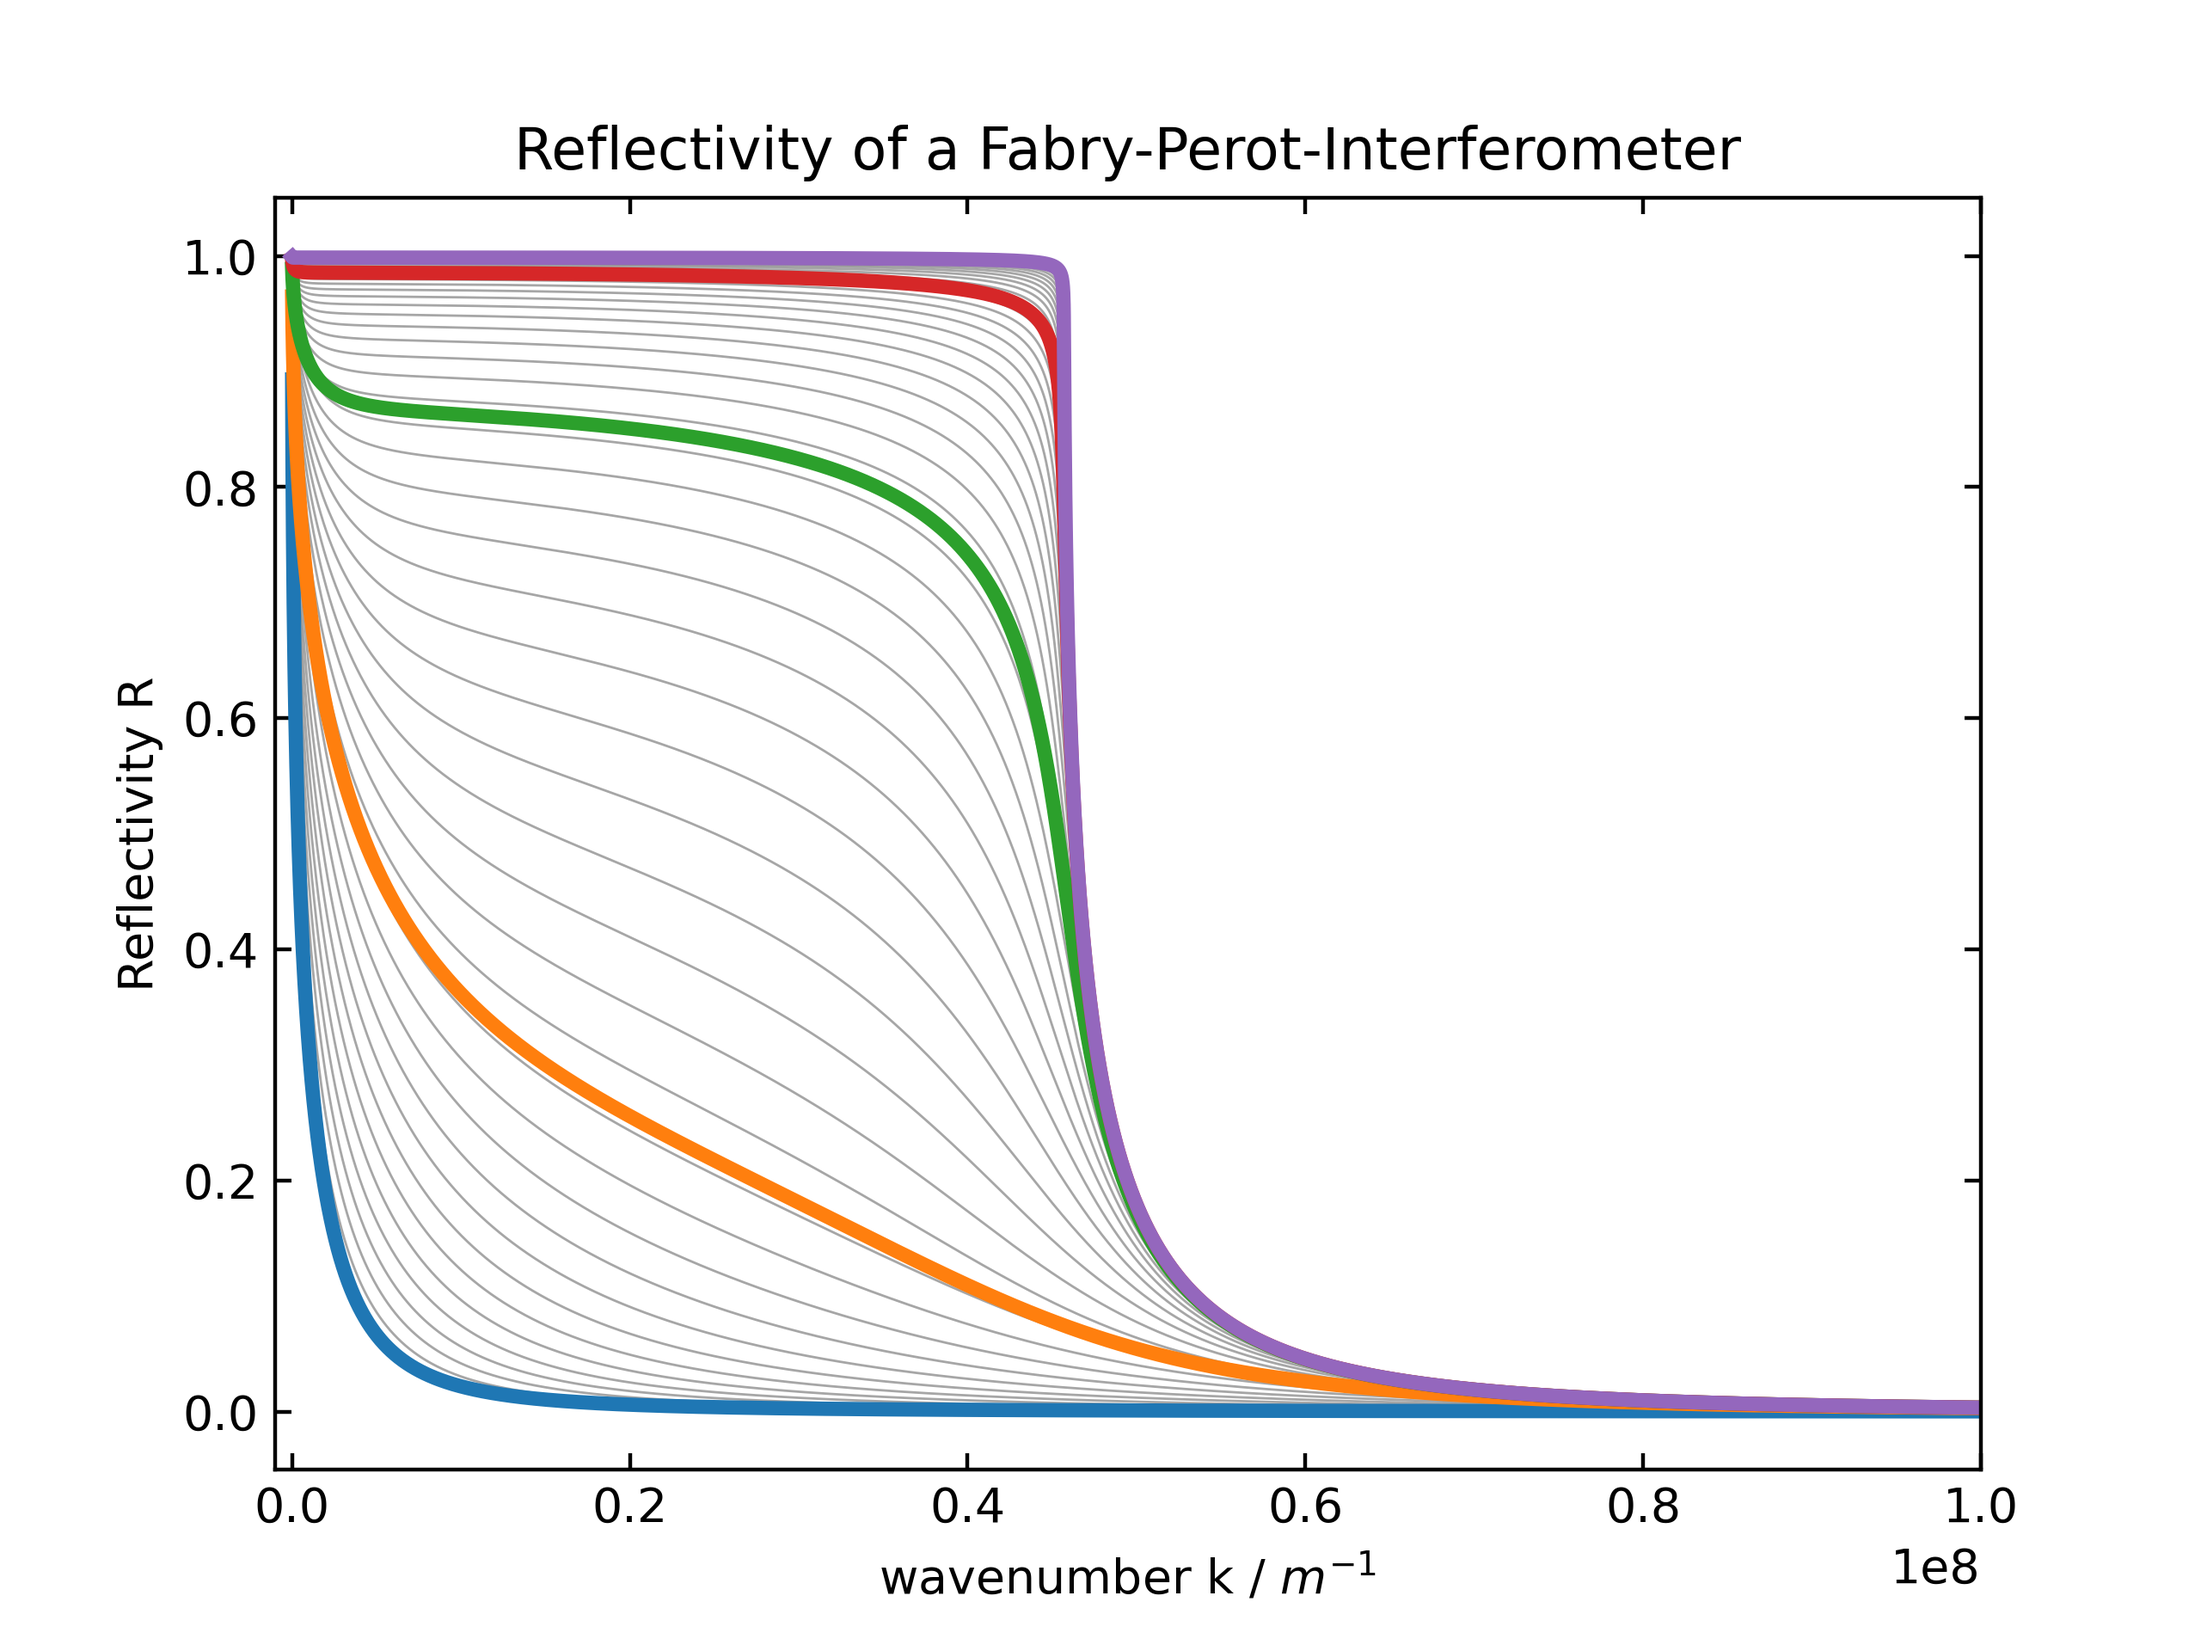
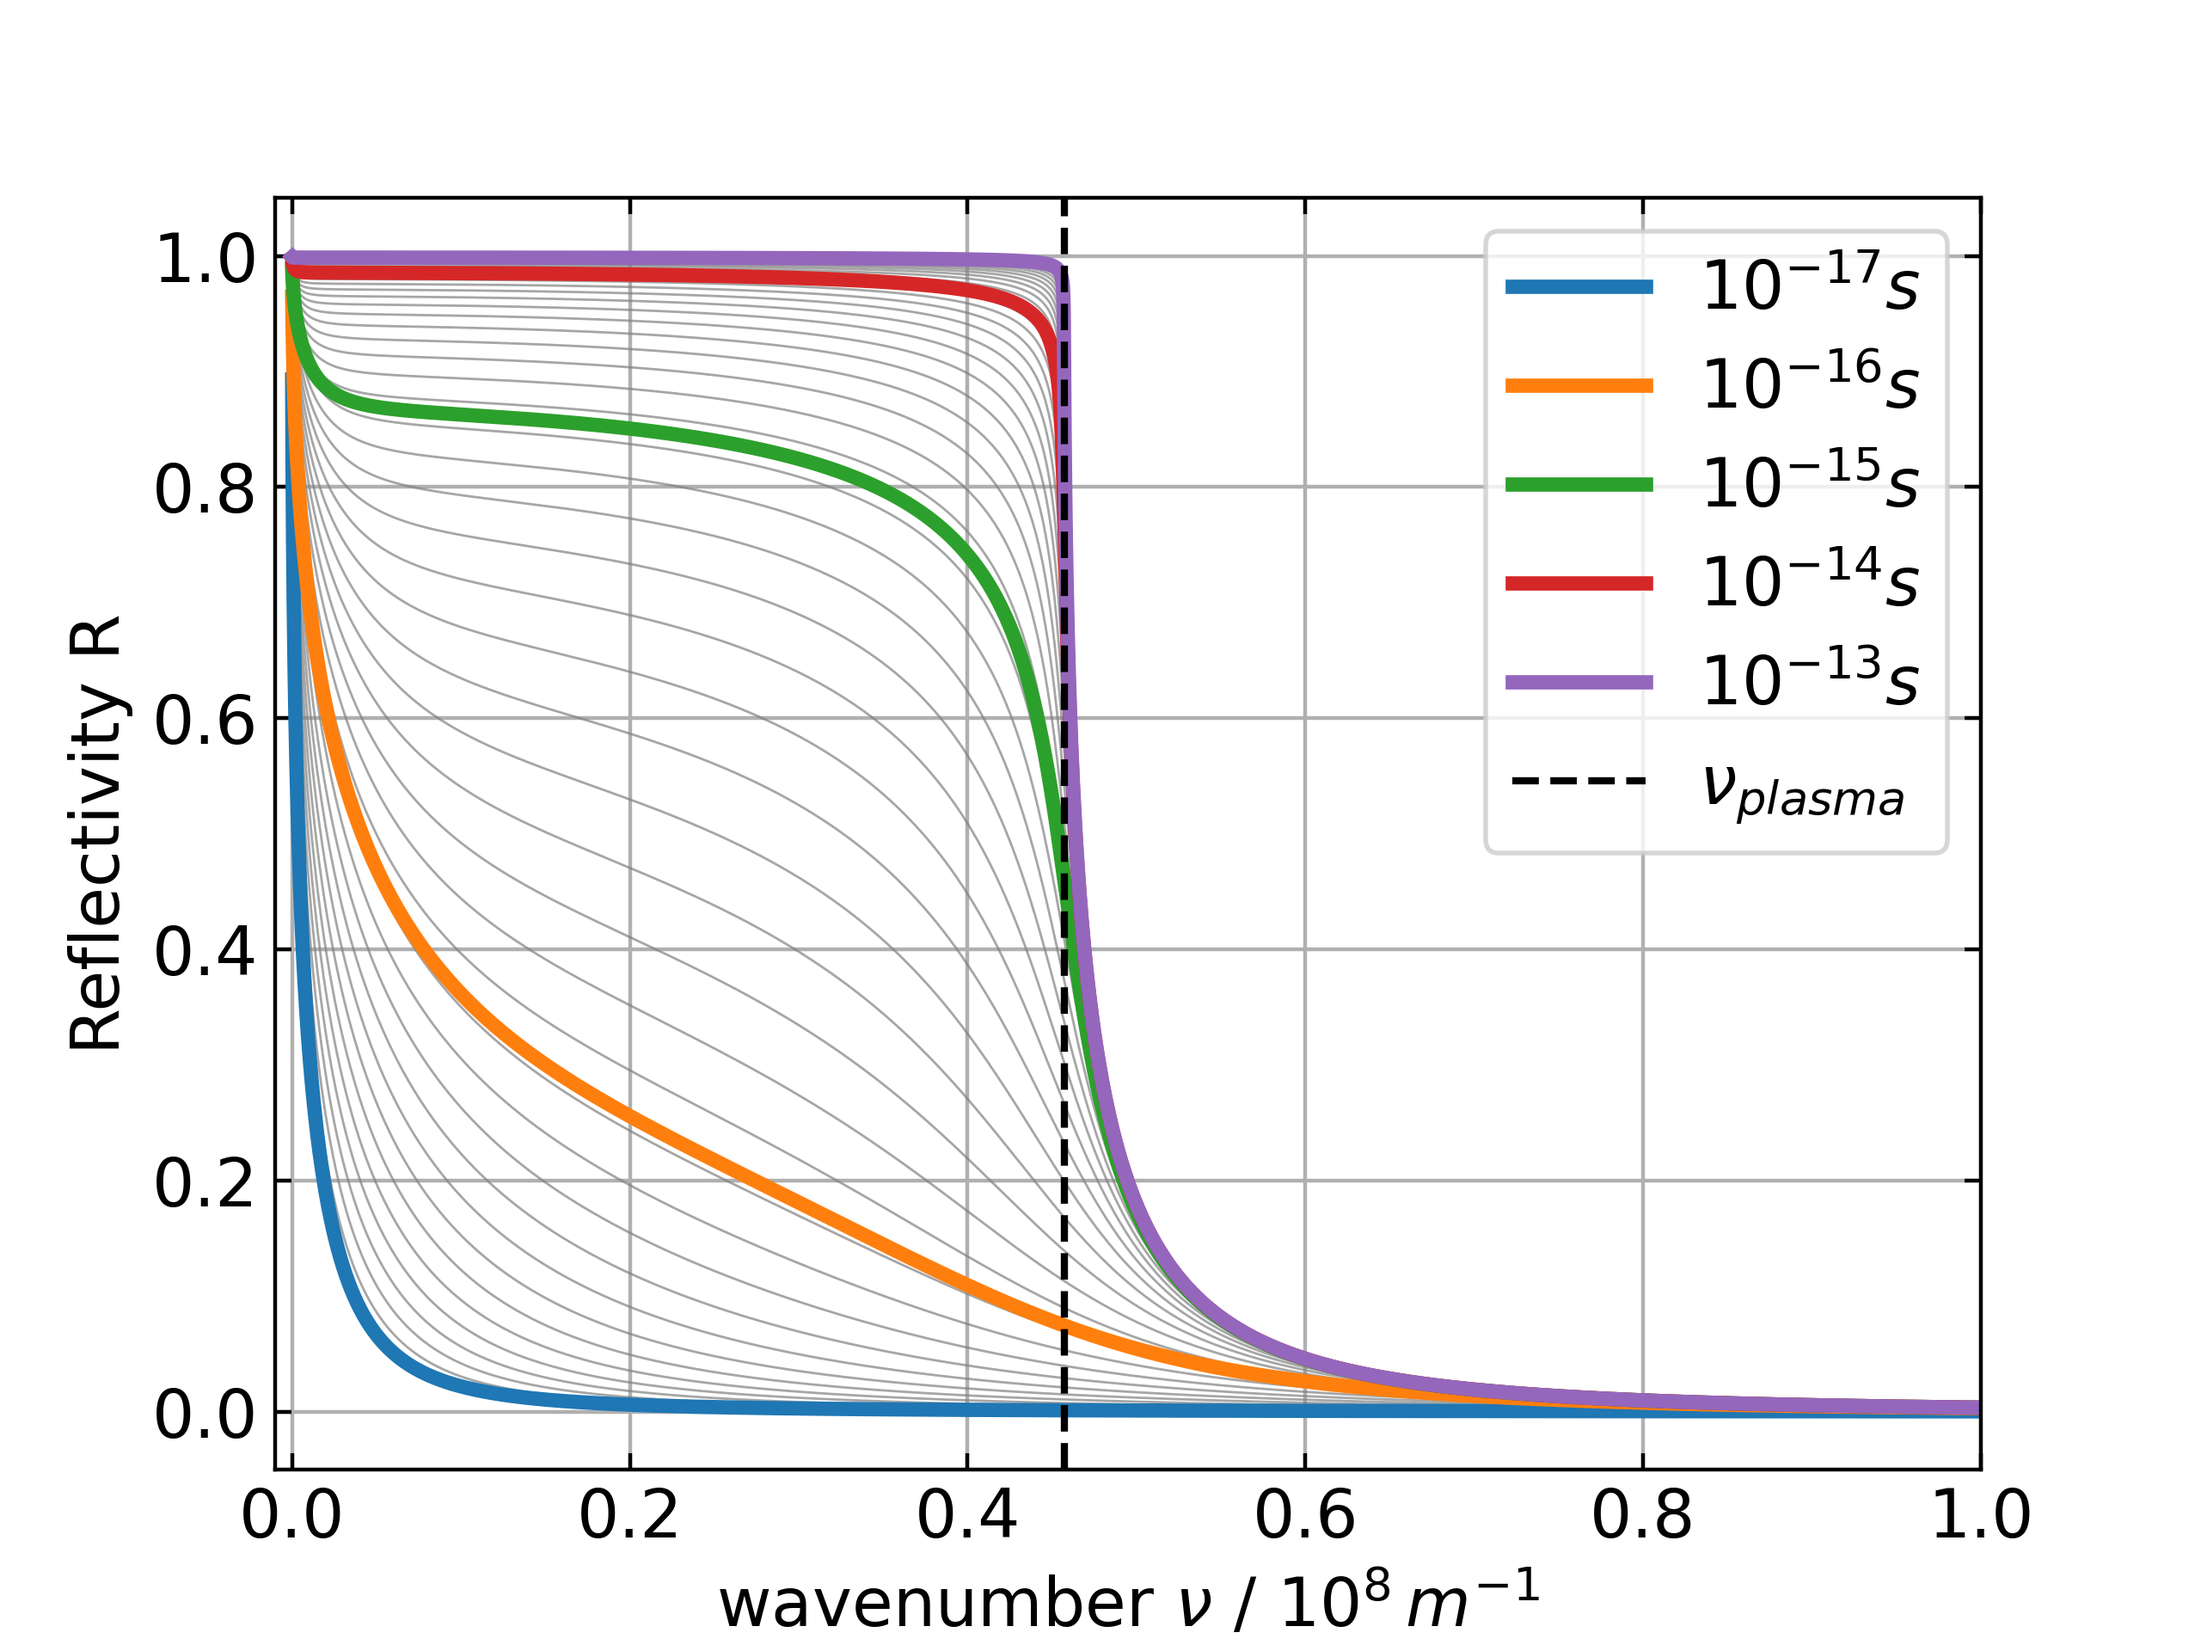
letzte Plots hübsch

diff --git a/SolidStateOptics/Theory/TheoreticalCurveReflection.py b/SolidStateOptics/Theory/TheoreticalCurveReflection.py
@@ -48,84 +48,37 @@ omega_plasma = np.sqrt(N_Dichte * e**2 / (m_eff * epsilon_0))
 k_plasma = omega_plasma / c
 def plotReflectivity(d, tau1, tau2, tau3, tau4, tau5, k_max):
     fig, ax = plt.subplots()
+    ax.grid()
     
     k = np.linspace(0, k_max, 10000)
 
     taus = np.logspace(np.log10(tau1), np.log10(tau5), 50)  # Generate 50 tau values logarithmically spaced
     for tau in taus:
-        ax.plot(k, calculateReflectivity(d, tau, k), color='gray', linewidth=0.5, alpha=0.7)
+        ax.plot(k*10**-8, calculateReflectivity(d, tau, k), color='gray', linewidth=0.5, alpha=0.7)
         
-    ax.plot(k, calculateReflectivity(d, tau5, k), linewidth=3)
-    ax.plot(k, calculateReflectivity(d, tau4, k), linewidth=3)
-    ax.plot(k, calculateReflectivity(d, tau3, k), linewidth=3)
-    ax.plot(k, calculateReflectivity(d, tau2, k), linewidth=3)
-    ax.plot(k, calculateReflectivity(d, tau1, k), linewidth=3)
+    ax.plot(k*10**-8, calculateReflectivity(d, tau5, k), linewidth=3, label=r'$10^{-17}s$')
+    ax.plot(k*10**-8, calculateReflectivity(d, tau4, k), linewidth=3, label=r'$10^{-16}s$')
+    ax.plot(k*10**-8, calculateReflectivity(d, tau3, k), linewidth=3, label=r'$10^{-15}s$')
+    ax.plot(k*10**-8, calculateReflectivity(d, tau2, k), linewidth=3, label=r'$10^{-14}s$')
+    ax.plot(k*10**-8, calculateReflectivity(d, tau1, k), linewidth=3, label=r'$10^{-13}s$')
     #ax.set_xticks([0, 0.25, 0.5, 0.75, 1], [r'$\Gamma$', 'X', 'M', 'Y', r'$\Gamma$'], size=14)
 
-    ax.set_ylabel('Reflectivity R')
-    ax.set_xlabel('wavenumber k / ' + r'$m^{-1}$')
-    ax.set_title('Reflectivity of a Fabry-Perot-Interferometer')
-    ax.tick_params(axis='both', direction='in', which='both', top=True, right=True)
-    ax.set_xlim(left=-0.01*k_max, right=k_max)
+    ax.set_ylabel('Reflectivity R', fontsize=14)
+    ax.set_xlabel(r'wavenumber $\nu$ / ' + r'$10^{8}\,m^{-1}$', fontsize=14)
+    ax.tick_params(axis='both', direction='in', which='both', top=True, right=True, labelsize=14)
+    ax.set_xlim(left=-0.01*k_max*10**-8, right=k_max*10**-8)
     ax.set_ylim(bottom=-0.05, top=1.05)
-    #ax.grid()
+    
+    ax.axvline(x=k_plasma*10**-8, color='black', linestyle='--', label=r'$\nu_{plasma}$')
+    ax.legend(fontsize=14)
 
     plt.savefig('Paper/Images/foo.png', dpi=400)
     from PIL import Image
-    #Image.open("Paper/Images/foo.png").show()
+    Image.open("Paper/Images/foo.png").show()
     plt.clf()
     plt.close()
 
 plotReflectivity(d, tau1, tau2, tau3, tau4, tau5, k_max)
-
-
-writeLatexMacro('N_Dichte',np.round(N_Dichte,4))
-
-#Lukas
-
-def calculateReflectivitySemiconductor(epsilon_inf, omega_LO, omega_TO, gamma, d, k, N_DichteSemicon, tau):
-    omega = c * k
-    epsilon_S = epsilon_inf * (1 + (omega_LO**2 - omega_TO**2) / (omega_TO**2 - omega**2 - 1j * omega * gamma))
-    sigma = (N_DichteSemicon * e**2 * tau) / (m_eff_Semicon) * (1 / (1 - 1j * omega * tau))
-    epsilon = epsilon_S + 1j * sigma / (omega * epsilon_0)
-    N_S = np.sqrt(epsilon)
-    expo = 1j * 2 * omega * N_S * d / c
-    r = (np.exp(expo) - 1) * (1 - N_S) / (np.exp(expo) * (1 - N_S) - (1 + N_S))
-    R_S = np.abs(r)**2  # Normierung entfernt
-    return R_S
-
-# Berechnung der Plasmafrequenz und des zugehörigen Wellenvektors für den Halbleiter-Plot
-omega_plasma_semicon = np.sqrt(N_DichteSemicon * e**2 / (m_eff_Semicon * epsilon_0))
-k_plasma_semicon = omega_plasma_semicon / c
-
-# Entfernen der Plasmafrequenzberechnung und der vertikalen Linie aus dem zweiten Plot
-k = np.linspace(1, k_max_semicon, 50000)  # Startwert auf 0.1 gesetzt, höhere Auflösung
-
-taus = [tau1, tau2, tau3, tau4]
-for tau in taus:
-    R_S = calculateReflectivitySemiconductor(epsilon_inf, omega_LO, omega_TO, gamma, d, k, N_DichteSemicon, tau)/10**8
-    # Überprüfung, ob R_S gültige Werte enthält
-    if np.all(np.isnan(R_S)) or np.all(R_S == 0):
-        print(f"Warnung: Alle Werte von R_S für τ={tau} sind ungültig oder Null.")
-    else:
-        plt.plot(k, R_S, label=f'τ={tau*1e12:.4f} ps')
-
-# Vertikale gestrichelte Linie bei k_plasma_semicon
-plt.axvline(x=k_plasma_semicon, color='black', linestyle='--', label=r'$k_{plasma}$')
-
-# Achsentitel, Legende und Speichern
-plt.xlabel('wave number $\nu\cdot10^{-8}$ / ' + r'$m^{-1}$')
-plt.ylabel('reflectivity R')
-plt.title('Theoretical reflectivity of a semiconductor')
-plt.legend()
-plt.tick_params(axis='both', direction='in', which='both', top=True, right=True)
-plt.xlim(left=0, right=k_max_semicon)
-plt.ylim(bottom=0, top=1)
-
-plt.savefig('Paper/Images/semi.png', dpi=400)
-from PIL import Image
-Image.open("Paper/Images/semi.png").show()
-plt.clf()
 
 
 writeLatexMacro('N_Dichte',np.round(N_Dichte,4))
